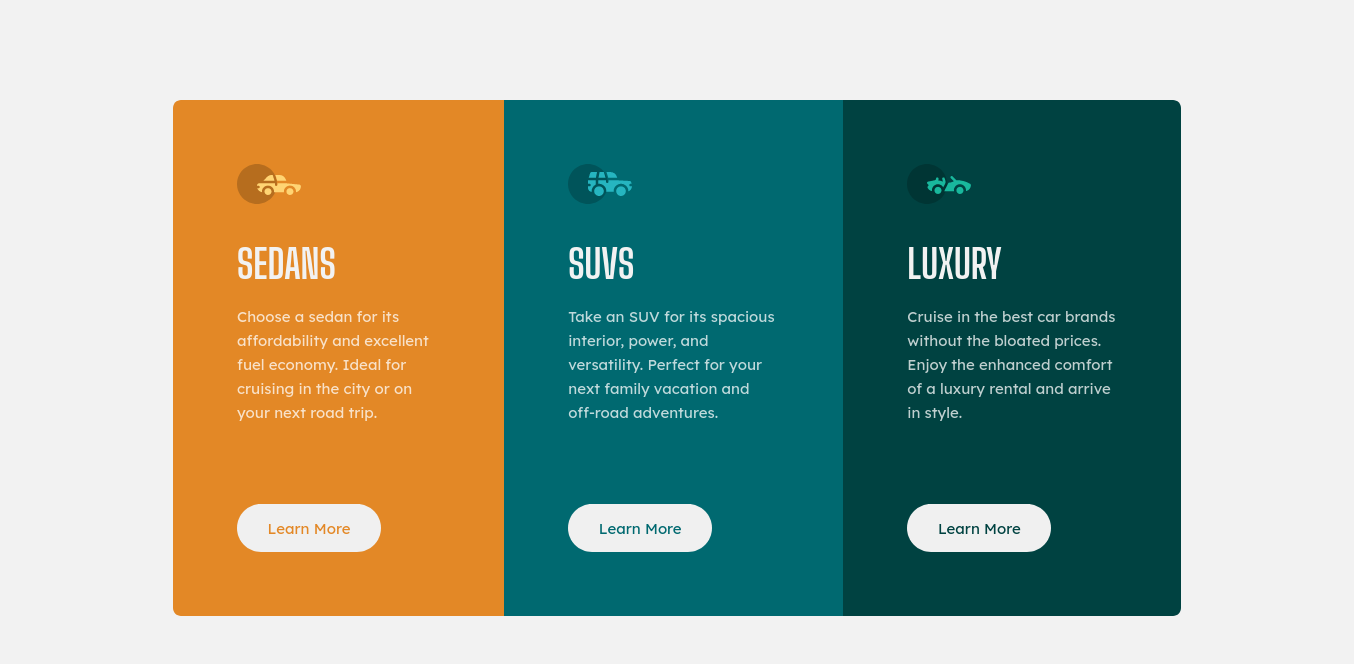
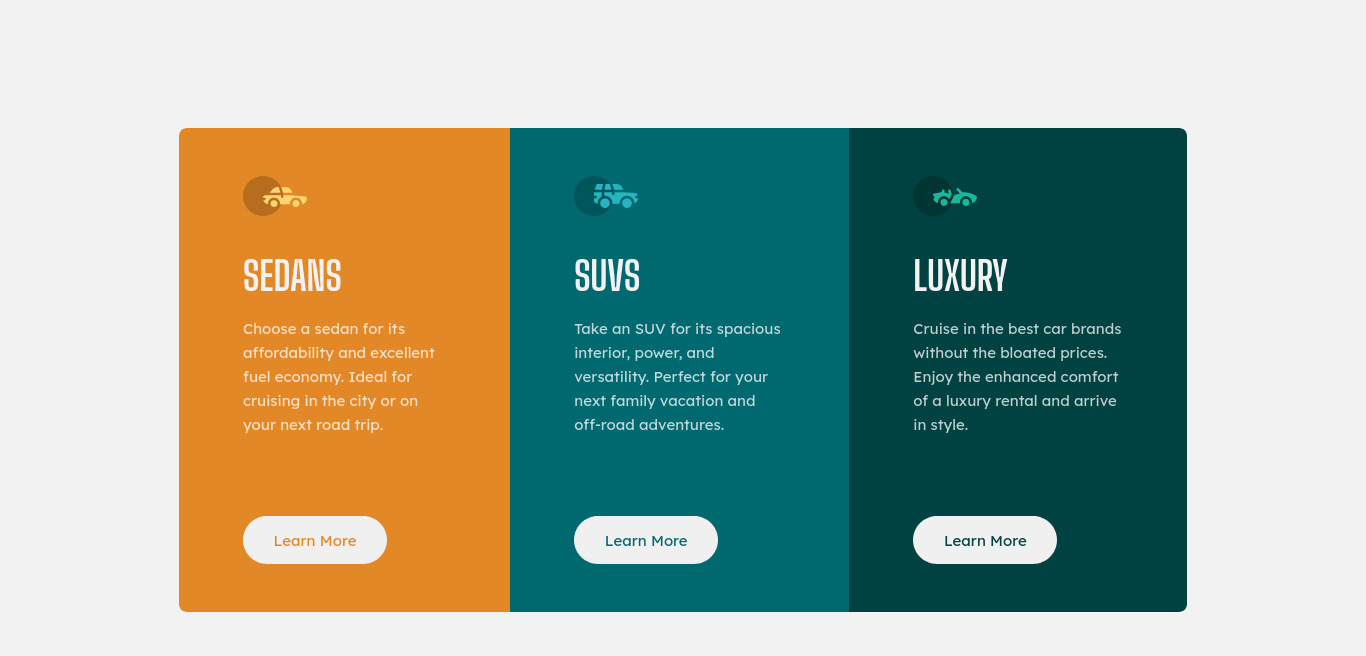
Change Screenshot-Desktop

diff --git a/index.html b/index.html
@@ -20,7 +20,7 @@
       <!--Sedans-->
       <div class="card sedans">
         <img class="card__image" src="./images/icon-sedans.svg" alt="sedans" />
-        <h2 class="card__title">SEDANS</h2>
+        <h1 class="card__title">SEDANS</h1>
         <p class="card__paragraph">
           Choose a sedan for its affordability and excellent fuel economy. Ideal
           for cruising in the city or on your next road trip.

diff --git a/index.css b/index.css
@@ -10,7 +10,7 @@ body {
 @media (min-width: 500px) {
   body {
     display: flex;
-    padding: 6.25rem 1.5rem 3rem 1.5rem;
+    padding: 7rem 1.5rem 0 1.5rem;
   }
 }
 
@@ -29,7 +29,7 @@ body {
 }
 @media (min-width: 968px) {
   .card {
-    padding: 4rem;
+    padding: 3rem 4rem;
   }
 }
 .card__image {
